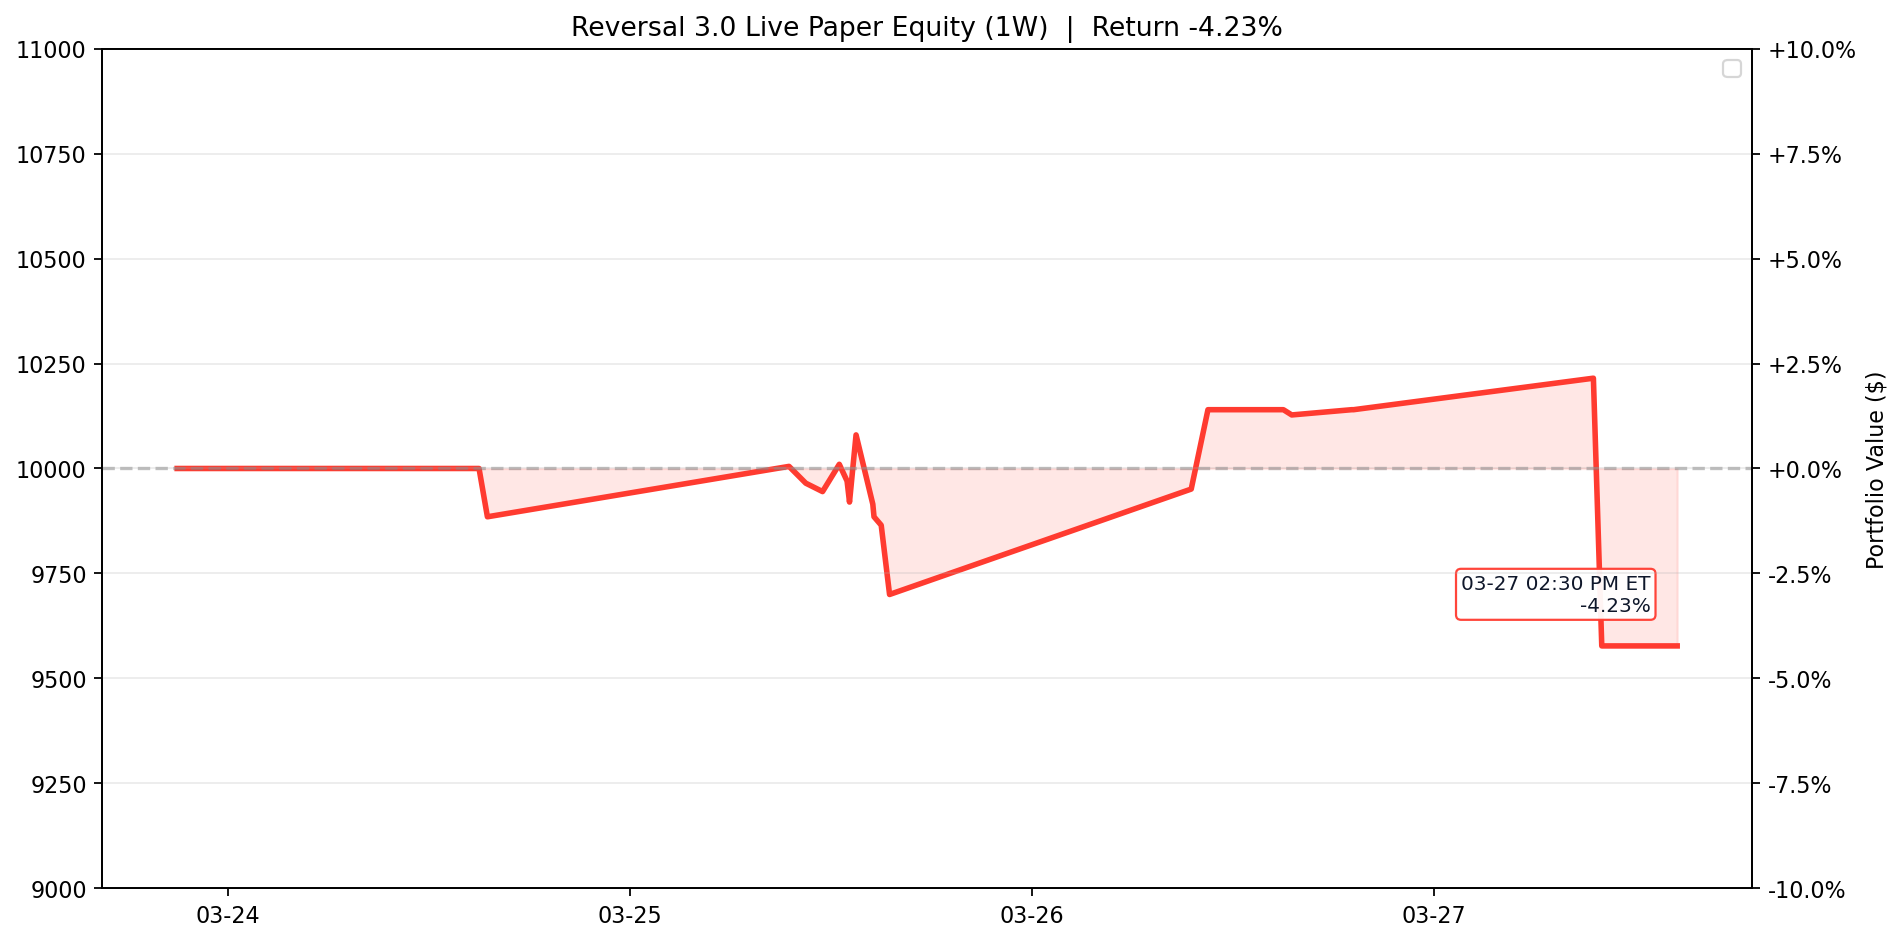
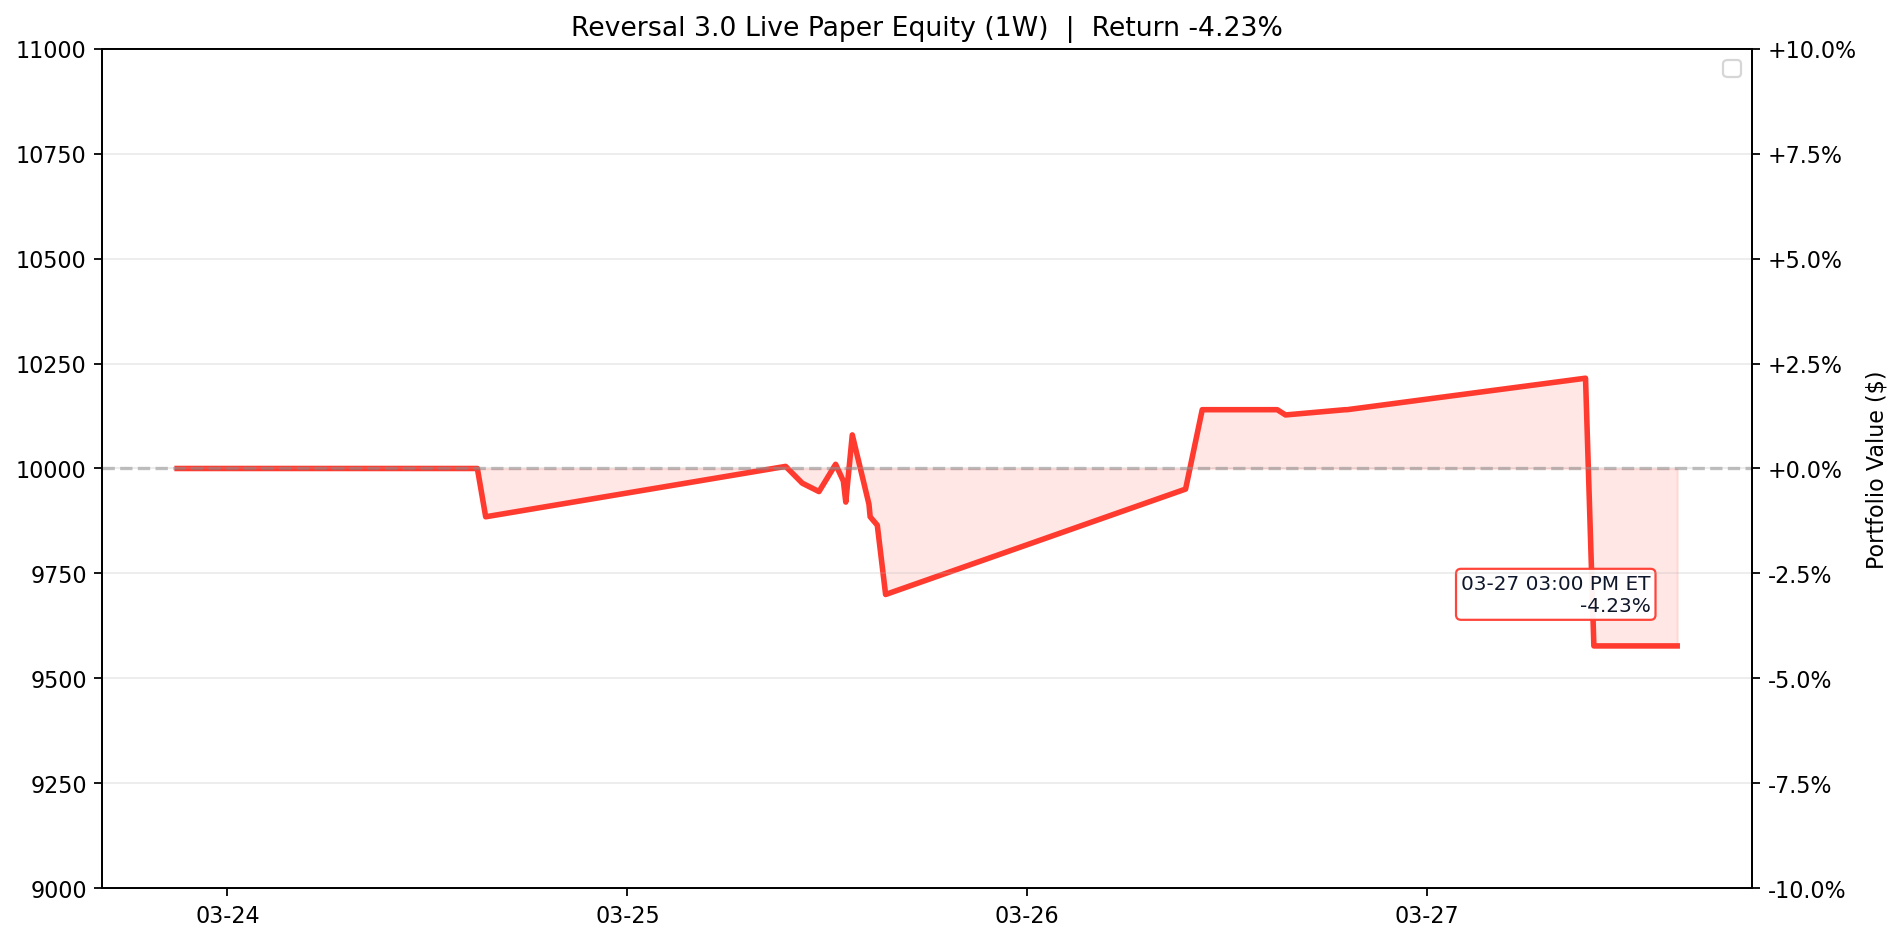
Update Reversal 3.0 live paper test 2026-03-27 15:00 ET

diff --git a/results/reversal_3_0_live/README.md b/results/reversal_3_0_live/README.md
@@ -1,7 +1,7 @@
 # Reversal 3.0 Live Paper Test
 
-Last updated (ET): `2026-03-27 14:30:06 EDT`
-Last processed slot: `manage_1430`
+Last updated (ET): `2026-03-27 15:00:04 EDT`
+Last processed slot: `entry_1500`
 
 ## Active Configuration
 
@@ -19,15 +19,18 @@ Last processed slot: `manage_1430`
 
 ## Portfolio Snapshot
 
-- Cash: `$9,577.50`
+- Cash: `$4,977.50`
 - Equity: `$9,577.50`
 - Realized PnL: `$-422.50`
 - Unrealized PnL: `$0.00`
-- Open positions: `0`
+- Open positions: `1`
 
 ## Open Positions
 
-_None_
+```text
+ticker    contract_symbol entry_trade_date  business_days_held  entry_option_price  current_option_price  entry_spot  current_spot  unrealized_pnl  unrealized_return_pct  success_rate  matched_signals  current_drop_pct  entry_iv_pct  current_iv_pct  rolling_sigma_20d_pct
+   HON HON260501C00225000       2026-03-27                   0                 9.2                   9.2      223.64         223.4             0.0                    0.0         100.0               20              0.68         39.47           39.47                  24.88
+```
 
 ## Today's Closed Trades (2026-03-27)
 
@@ -40,34 +43,34 @@ ticker     contract_symbol entry_trade_date_et exit_trade_date_et  entry_option_
 
 ```text
 ticker  success_rate_%  matched_signals  current_drop_%  target_rebound_$  target_price  rolling_sigma_20d_%  call_candidate
-   HON          100.00               20            0.69              1.09        224.70                24.88            True
-  INTC           96.15               26            2.40              0.74         43.78                64.25            True
-  NVDA           94.44               18            1.87              2.25        170.28                31.98            True
-  REGN           93.75               16            2.01             10.66        752.16                28.18            True
-  AVGO           91.30               23            1.99              4.31        307.57                38.20            True
-  AMAT           91.18               34            0.80              1.91        337.73                54.88            True
-  KLAC           89.47               38            0.51              5.16       1448.92                53.70            True
-  MPWR           88.89               36            0.86              6.38       1055.54                45.70            True
-  GILD           86.96               23            0.94              0.90        136.49                19.20            True
-  ORLY           86.21               29            1.07              0.69         91.97                20.62            True
-  CHTR           86.11               36            0.73              1.11        218.03                37.58            True
-   AMD           85.71               35            1.16              1.65        203.06                56.22            True
+   HON          100.00               20            0.68              1.07        224.71                24.88            True
+  INTC           96.43               28            2.23              0.69         43.80                64.25            True
+  REGN           94.12               17            1.93             10.21        752.35                28.18            True
+  NVDA           93.75               16            2.17              2.60        170.13                31.98            True
+  AMAT           91.18               34            0.79              1.88        337.75                54.88            True
+  AVGO           89.47               19            2.17              4.70        307.40                38.20            True
+  KLAC           89.19               37            0.52              5.24       1448.89                53.70            True
+  MPWR           88.89               36            0.78              5.80       1055.80                45.70            True
+ CMCSA           88.46               26            1.06              0.21         28.63                27.69            True
+   LIN           86.96               23            0.62              2.15        494.57                19.13            True
+   TRI           85.71               35            1.14              0.72         90.07                48.84            True
+  CTAS           85.71               21            1.14              1.34        168.27                26.37            True
 ```
 
 ## Recent Events
 
 ```text
-                    timestamp_et         slot   event_type                                                                                                                                                                             detail
-2026-03-27T10:00:06.175720-04:00  manage_1000         exit                                               {"contract_symbol": "ABNB260515C00130000", "pnl": -562.5, "reason": "stop_loss_hit_at_scan", "return_pct": -11.42, "ticker": "ABNB"}
-2026-03-27T09:30:06.387888-04:00 data_refresh data_refresh                                                                                                                                                                      {'saved': 97}
-2026-03-26T15:00:01.983935-04:00   entry_1500        entry   {"allocated_cash": 4925.0, "contract_symbol": "ABNB260515C00130000", "contracts": 5, "entry_option_price": 9.85, "matched_signals": 35, "success_rate": 94.29, "ticker": "ABNB"}
-2026-03-26T10:30:00.722036-04:00  manage_1030         exit                                                           {"contract_symbol": "AVGO260515C00320000", "pnl": -540.0, "reason": "stop_scan", "return_pct": -11.88, "ticker": "AVGO"}
-2026-03-26T10:30:00.722036-04:00  manage_1030         exit                                                          {"contract_symbol": "FANG260515C00195000", "pnl": 680.0, "reason": "tp_day1_scan", "return_pct": 13.93, "ticker": "FANG"}
-2026-03-26T09:30:05.730919-04:00 data_refresh data_refresh                                                                                                                                                                      {'saved': 97}
-2026-03-25T15:00:03.353246-04:00   entry_1500        entry   {"allocated_cash": 4880.0, "contract_symbol": "FANG260515C00195000", "contracts": 4, "entry_option_price": 12.2, "matched_signals": 25, "success_rate": 100.0, "ticker": "FANG"}
-2026-03-25T14:34:20.011472-04:00  manage_1430 slot_skipped                                                                                                                                                    {"reason": "already_processed"}
-2026-03-25T09:30:01.175501-04:00 data_refresh data_refresh                                                                                                                                                                      {'saved': 97}
-2026-03-24T15:00:05.740108-04:00   entry_1500        entry {"allocated_cash": 4545.0, "contract_symbol": "AVGO260515C00320000", "contracts": 2, "entry_option_price": 22.725, "matched_signals": 30, "success_rate": 93.33, "ticker": "AVGO"}
+                    timestamp_et         slot   event_type                                                                                                                                                                           detail
+2026-03-27T15:00:04.241996-04:00   entry_1500        entry    {"allocated_cash": 4600.0, "contract_symbol": "HON260501C00225000", "contracts": 5, "entry_option_price": 9.2, "matched_signals": 20, "success_rate": 100.0, "ticker": "HON"}
+2026-03-27T10:00:06.175720-04:00  manage_1000         exit                                             {"contract_symbol": "ABNB260515C00130000", "pnl": -562.5, "reason": "stop_loss_hit_at_scan", "return_pct": -11.42, "ticker": "ABNB"}
+2026-03-27T09:30:06.387888-04:00 data_refresh data_refresh                                                                                                                                                                    {'saved': 97}
+2026-03-26T15:00:01.983935-04:00   entry_1500        entry {"allocated_cash": 4925.0, "contract_symbol": "ABNB260515C00130000", "contracts": 5, "entry_option_price": 9.85, "matched_signals": 35, "success_rate": 94.29, "ticker": "ABNB"}
+2026-03-26T10:30:00.722036-04:00  manage_1030         exit                                                         {"contract_symbol": "AVGO260515C00320000", "pnl": -540.0, "reason": "stop_scan", "return_pct": -11.88, "ticker": "AVGO"}
+2026-03-26T10:30:00.722036-04:00  manage_1030         exit                                                        {"contract_symbol": "FANG260515C00195000", "pnl": 680.0, "reason": "tp_day1_scan", "return_pct": 13.93, "ticker": "FANG"}
+2026-03-26T09:30:05.730919-04:00 data_refresh data_refresh                                                                                                                                                                    {'saved': 97}
+2026-03-25T15:00:03.353246-04:00   entry_1500        entry {"allocated_cash": 4880.0, "contract_symbol": "FANG260515C00195000", "contracts": 4, "entry_option_price": 12.2, "matched_signals": 25, "success_rate": 100.0, "ticker": "FANG"}
+2026-03-25T14:34:20.011472-04:00  manage_1430 slot_skipped                                                                                                                                                  {"reason": "already_processed"}
+2026-03-25T09:30:01.175501-04:00 data_refresh data_refresh                                                                                                                                                                    {'saved': 97}
 ```
 
 ## Equity Curve (1W)

diff --git a/README.md b/README.md
@@ -3,13 +3,16 @@
 <!-- reversal-3.0-live:start -->
 ## Reversal 3.0 Live Paper Test
 
-- Last updated (ET): `2026-03-27 14:30:06 EDT`
-- Equity: `$9,577.50` | Realized: `$-422.50` | Unrealized: `$0.00` | Open positions: `0`
+- Last updated (ET): `2026-03-27 15:00:04 EDT`
+- Equity: `$9,577.50` | Realized: `$-422.50` | Unrealized: `$0.00` | Open positions: `1`
 - Today closed trades: `1`
-- Current slot: `manage_1430`
+- Current slot: `entry_1500`
 - Chart: trailing `1W` with ET timestamps
 
-_None_
+```text
+ticker    contract_symbol  current_option_price  unrealized_pnl  unrealized_return_pct  business_days_held
+   HON HON260501C00225000                   9.2             0.0                    0.0                   0
+```
 
 ![Reversal 3.0 Live Equity 1W](assets/reversal_3_0_live_equity.png)
 
